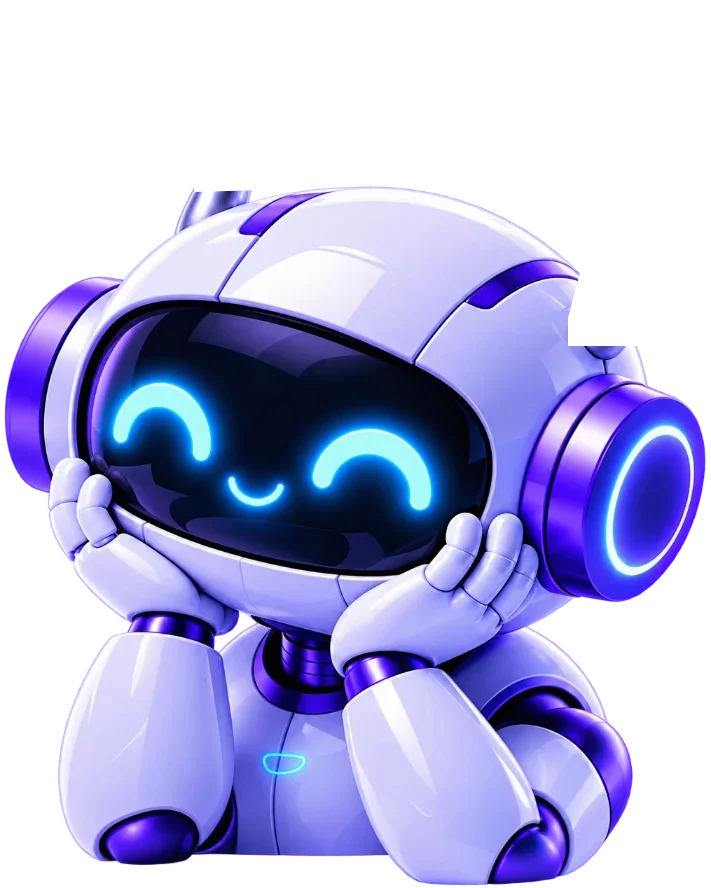
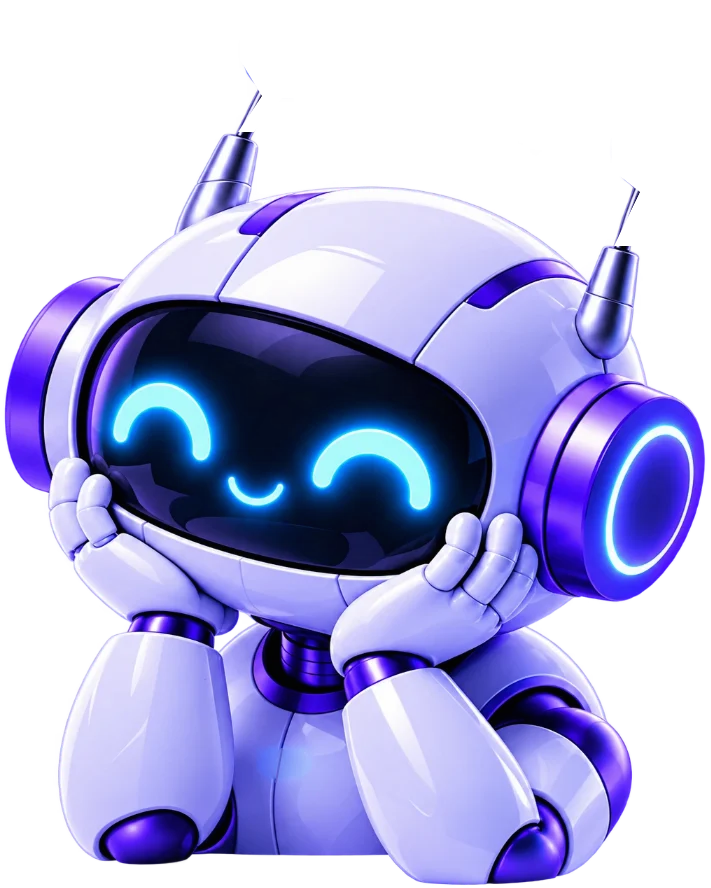
fix: hero — антени, блік на грудях, відблиск на кільці
- хитаються лише стрижні антен з кульками, конуси лишаються на голові (без «відклеювання»)
- прибрано блакитний блік на грудях робота
- відблиск на кільці обмежено маскою за формою кільця

diff --git a/index.html b/index.html
@@ -148,6 +148,9 @@
                 <feGaussianBlur stdDeviation="4" result="glow"/>
                 <feMerge><feMergeNode in="glow"/><feMergeNode in="glow"/></feMerge>
               </filter>
+              <mask id="ring-shape" mask-type="alpha" style="mask-type: alpha" maskUnits="userSpaceOnUse" x="0" y="0" width="1672" height="941">
+                <image href="assets/images/hero/layers/ring.webp" x="725" y="228.5" width="915.4" height="424.8"/>
+              </mask>
               <clipPath id="logo-clip"><ellipse cx="248" cy="138" rx="72" ry="68"/></clipPath>
             </defs>
 
@@ -158,7 +161,10 @@
               <g transform="rotate(-3 1180 411)">
                 <g class="ring">
                   <image class="ring__img" href="assets/images/hero/layers/ring.webp" x="725" y="228.5" width="915.4" height="424.8"/>
-                  <ellipse class="ring__spark" cx="1217" cy="454" rx="456" ry="86" transform="rotate(-18.9 1217 454)" pathLength="100" fill="none" stroke="#f7fee7" stroke-width="7" stroke-linecap="round" filter="url(#fx-glow-sm)"/>
+                  <!-- Іскра видима лише в межах самого кільця (маска — прозорість зображення кільця) -->
+                  <g mask="url(#ring-shape)">
+                    <ellipse class="ring__spark" cx="1217" cy="454" rx="456" ry="86" transform="rotate(-18.9 1217 454)" pathLength="100" fill="none" stroke="#f7fee7" stroke-width="7" stroke-linecap="round" filter="url(#fx-glow-sm)"/>
+                  </g>
                 </g>
               </g>
             </g>
@@ -174,9 +180,11 @@
 
               <g transform="translate(981.5 181.9) scale(0.66)">
                 <g class="robot">
+                  <!-- Антени: конуси лишаються на голові (у тілі робота), хитаються лише стрижні з кульками.
+                       Низ стрижня заходить у конус і ховається за ним, тож антена ніколи не «відклеюється» -->
+                  <image class="antenna antenna--l" href="assets/images/hero/layers/antenna-l.webp" x="234" y="0" width="106" height="150"/>
+                  <image class="antenna antenna--r" href="assets/images/hero/layers/antenna-r.webp" x="610" y="95" width="102" height="167"/>
                   <image href="assets/images/hero/layers/robot-body.webp" width="711" height="888"/>
-                  <image class="antenna antenna--l" href="assets/images/hero/layers/antenna-l.webp" x="194" y="0" width="151" height="192"/>
-                  <image class="antenna antenna--r" href="assets/images/hero/layers/antenna-r.webp" x="568" y="92" width="147" height="254"/>
                   <g class="glow" filter="url(#fx-glow-sm)">
                     <ellipse class="glow__ear" cx="650" cy="527" rx="46" ry="88" fill="none" stroke="#818cf8" stroke-width="16"/>
                   </g>

diff --git a/custom-styles.css b/custom-styles.css
@@ -203,12 +203,12 @@ body {
 
   /* Антени-«вушка» хитаються навколо місця кріплення до голови */
   .hero-fx .antenna--l {
-    transform-origin: 22% 99%;
+    transform-origin: 12% 91%; /* точка, де стрижень входить у конус */
     animation: antenna-l 3.6s ease-in-out infinite;
   }
 
   .hero-fx .antenna--r {
-    transform-origin: 26% 99%;
+    transform-origin: 11% 91%;
     animation: antenna-r 4.2s ease-in-out -1.3s infinite;
   }
 
@@ -321,12 +321,12 @@ body {
 
 @keyframes antenna-l {
   0%, 100% { transform: rotate(-5deg); }
-  50% { transform: rotate(6deg); }
+  50% { transform: rotate(5deg); }
 }
 
 @keyframes antenna-r {
   0%, 100% { transform: rotate(5deg); }
-  50% { transform: rotate(-6deg); }
+  50% { transform: rotate(-5deg); }
 }
 
 @keyframes glow-breathe {
